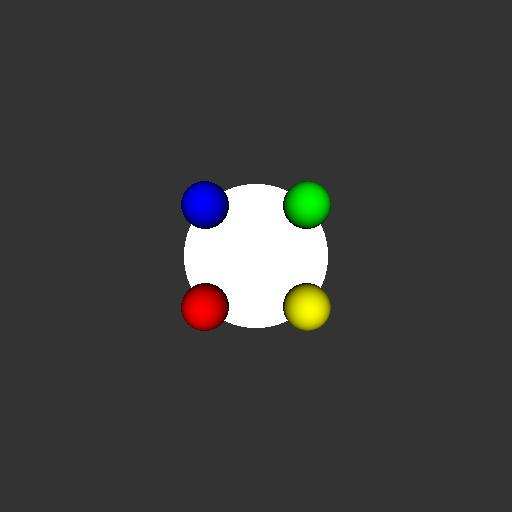
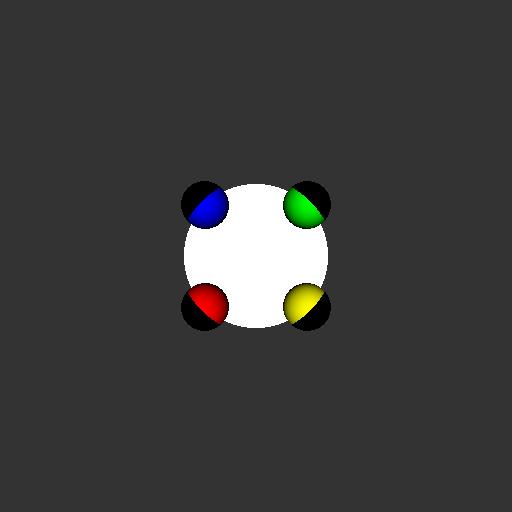
Run shadows on all pictures

diff --git a/src/main/java/edu/byu/cs455/Main.java b/src/main/java/edu/byu/cs455/Main.java
@@ -39,26 +39,26 @@ public class Main
         scene = new Scene(spheres, triangles, cameraSettings, light);
         scene.rayTraceToFile(args[0]);
 
-//        spheres = new ArrayList<>();
-//        triangles = new ArrayList<>();
-//        spheres.add(new Sphere(new Vector(0.0, 0.3, 0.0), 0.2, new Reflective(new Color(1.0f, 1.0f, 1.0f))));
-//        triangles.add(new Triangle(new Vector(0.3, -0.3, -0.4), new Vector(0.0, 0.3, -0.1), new Vector(-0.3, -0.3, 0.2), new Diffuse(new Color(0.0f, 0.0f, 1.0f), new Color(1.0f, 1.0f, 1.0f), 32)));
-//        triangles.add(new Triangle(new Vector(-0.2, 0.1, 0.1), new Vector(-0.2, -0.5, 0.2), new Vector(-0.2, 0.1, -0.3), new Diffuse(new Color(1.0f, 1.0f, 0.0f), new Color(1.0f, 1.0f, 1.0f), 4)));
-//        cameraSettings = new CameraSettings(new Vector(0.0, 0.0, 0.0), new Vector(0.0, 0.0, 1.2), new Vector(0.0, 1.0, 0.0), 55);
-//        light = new Light(new Vector(0.0, 1.0, 0.0), new Color(1.0f, 1.0f, 1.0f), new Color(0.0f, 0.0f, 0.0f), new Color(0.2f, 0.2f, 0.2f));
-//        scene = new Scene(spheres, triangles, cameraSettings, light);
-//        scene.rayTraceToFile(args[1]);
+        spheres = new ArrayList<>();
+        triangles = new ArrayList<>();
+        spheres.add(new Sphere(new Vector(0.0, 0.3, 0.0), 0.2, new Reflective(new Color(1.0f, 1.0f, 1.0f))));
+        triangles.add(new Triangle(new Vector(0.3, -0.3, -0.4), new Vector(0.0, 0.3, -0.1), new Vector(-0.3, -0.3, 0.2), new Diffuse(new Color(0.0f, 0.0f, 1.0f), new Color(1.0f, 1.0f, 1.0f), 32)));
+        triangles.add(new Triangle(new Vector(-0.2, 0.1, 0.1), new Vector(-0.2, -0.5, 0.2), new Vector(-0.2, 0.1, -0.3), new Diffuse(new Color(1.0f, 1.0f, 0.0f), new Color(1.0f, 1.0f, 1.0f), 4)));
+        cameraSettings = new CameraSettings(new Vector(0.0, 0.0, 0.0), new Vector(0.0, 0.0, 1.2), new Vector(0.0, 1.0, 0.0), 55);
+        light = new Light(new Vector(0.0, 1.0, 0.0), new Color(1.0f, 1.0f, 1.0f), new Color(0.0f, 0.0f, 0.0f), new Color(0.2f, 0.2f, 0.2f));
+        scene = new Scene(spheres, triangles, cameraSettings, light);
+        scene.rayTraceToFile(args[1]);
 
-//        spheres = new ArrayList<>();
-//        triangles = new ArrayList<>();
-//        spheres.add(new Sphere(new Vector(0.0, 0.0, 0.0), 0.2322, new Refractive(new Color(1.0f, 1.0f, 1.0f), 1.333)));
-//        spheres.add(new Sphere(new Vector(0.25, 0.25, -0.6), 0.1161, new Diffuse(new Color(1.0f, 1.0f, 0.0f), new Color(0.5f, 1.0f, 0.5f), 4)));
-//        spheres.add(new Sphere(new Vector(-0.25, 0.25, -0.6), 0.1161, new Diffuse(new Color(1.0f, 0.0f, 0.0f), new Color(0.0f, 0.0f, 0.0f), 4)));
-//        spheres.add(new Sphere(new Vector(-0.25, -0.25, -0.6), 0.1161, new Diffuse(new Color(0.0f, 0.0f, 1.0f), new Color(0.0f, 0.0f, 0.0f), 4)));
-//        spheres.add(new Sphere(new Vector(0.25, -0.25, -0.6), 0.1161, new Diffuse(new Color(0.0f, 1.0f, 0.0f), new Color(0.0f, 0.0f, 0.0f), 4)));
-//        cameraSettings = new CameraSettings(new Vector(0.0, 0.0, 0.0), new Vector(0.0, 0.0, 1.2), new Vector(0.0, 1.0, 0.0), 35);
-//        light = new Light(new Vector(0.0, 0.0, 1.0), new Color(1.0f, 1.0f, 1.0f), new Color(0.0f, 0.0f, 0.0f), new Color(0.2f, 0.2f, 0.2f));
-//        scene = new Scene(spheres, triangles, cameraSettings, light);
-//        scene.rayTraceToFile(args[2]);
+        spheres = new ArrayList<>();
+        triangles = new ArrayList<>();
+        spheres.add(new Sphere(new Vector(0.0, 0.0, 0.0), 0.2322, new Refractive(new Color(1.0f, 1.0f, 1.0f), 1.333)));
+        spheres.add(new Sphere(new Vector(0.25, 0.25, -0.6), 0.1161, new Diffuse(new Color(1.0f, 1.0f, 0.0f), new Color(0.5f, 1.0f, 0.5f), 4)));
+        spheres.add(new Sphere(new Vector(-0.25, 0.25, -0.6), 0.1161, new Diffuse(new Color(1.0f, 0.0f, 0.0f), new Color(0.0f, 0.0f, 0.0f), 4)));
+        spheres.add(new Sphere(new Vector(-0.25, -0.25, -0.6), 0.1161, new Diffuse(new Color(0.0f, 0.0f, 1.0f), new Color(0.0f, 0.0f, 0.0f), 4)));
+        spheres.add(new Sphere(new Vector(0.25, -0.25, -0.6), 0.1161, new Diffuse(new Color(0.0f, 1.0f, 0.0f), new Color(0.0f, 0.0f, 0.0f), 4)));
+        cameraSettings = new CameraSettings(new Vector(0.0, 0.0, 0.0), new Vector(0.0, 0.0, 1.2), new Vector(0.0, 1.0, 0.0), 35);
+        light = new Light(new Vector(0.0, 0.0, 1.0), new Color(1.0f, 1.0f, 1.0f), new Color(0.0f, 0.0f, 0.0f), new Color(0.2f, 0.2f, 0.2f));
+        scene = new Scene(spheres, triangles, cameraSettings, light);
+        scene.rayTraceToFile(args[2]);
     }
 }
